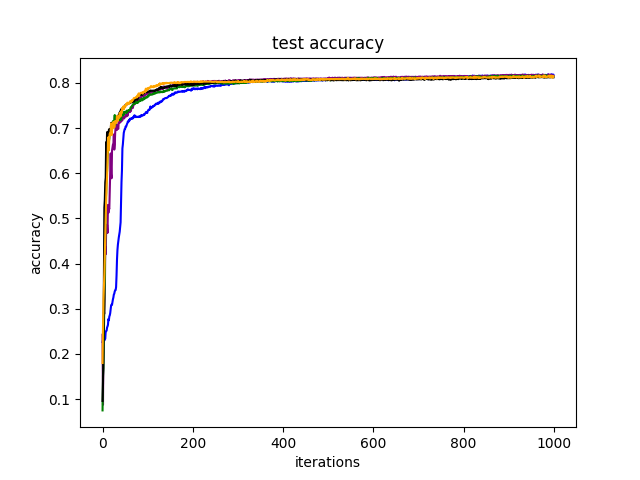
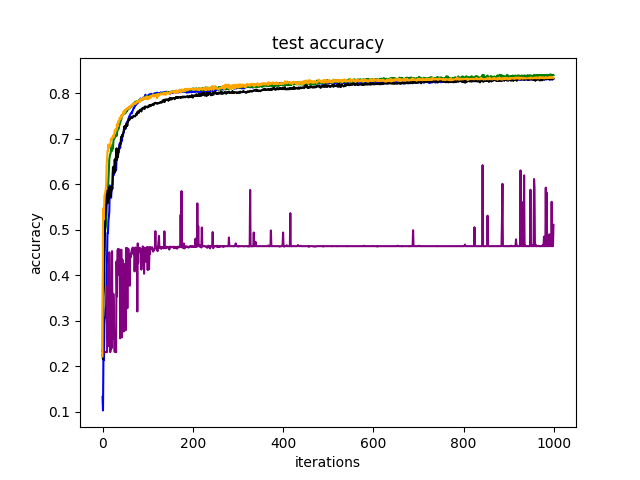
Q4 - Optimal decay parameter

diff --git a/Proj1/Project_1a/question_4.py b/Proj1/Project_1a/question_4.py
@@ -3,7 +3,7 @@ import theano
 import theano.tensor as T
 import matplotlib.pyplot as plt
 import time
-import math
+
 
 def init_bias(n = 1):
     return(theano.shared(np.zeros(n), theano.config.floatX))
@@ -64,7 +64,7 @@ for decay in possible_decay_parameters:
     w2, b2 = init_weights(neurons, 6, logistic=False), init_bias(6) #weights and biases from hidden to output layer
 
     h1 = T.nnet.sigmoid(T.dot(X, w1) + b1)
-    py = T.nnet.softmax(T.doxt(h1, w2) + b2)
+    py = T.nnet.softmax(T.dot(h1, w2) + b2)
 
     y_x = T.argmax(py, axis=1)
 
@@ -136,7 +136,7 @@ for decay in possible_decay_parameters:
 
     for i in range(epochs):
         if i % 200 == 0:
-            print("Batch size: " + str(batch_size) + ", iteration: " + str(i) +" of " + str(epochs))
+            print("Decay parameter: " + str(decay) + ", iteration: " + str(i) +" of " + str(epochs))
 
         trainX, trainY = shuffle_data(trainX, trainY)
         cost = 0.0
@@ -149,11 +149,11 @@ for decay in possible_decay_parameters:
         test_accuracy = np.append(test_accuracy, np.mean(np.argmax(testY, axis=1) == predict(testX)))
 
     plt.figure("cost")
-    plt.plot(range(epochs), train_cost, color=colors[decay], label="test")
+    plt.plot(range(epochs), train_cost, color=colors[decay], label = "Decay: " + str(decay))
     plt.figure("accuracy")
-    plt.plot(range(epochs), test_accuracy, color=colors[decay])
-    plt.figure("time")
-    plt.plot(range(epochs), time_list, color=colors[decay])
+    plt.plot(range(epochs), test_accuracy, color=colors[decay], label = "Decay: " + str(decay))
+    #plt.figure("time")
+    #plt.plot(range(epochs), time_list, color=colors[decay])
 
 
 
@@ -166,14 +166,16 @@ plt.figure("cost")
 plt.xlabel('iterations')
 plt.ylabel('cross-entropy')
 plt.title('training cost')
-plt.savefig('p1a_sample_cost.png')
+plt.savefig('p1a_sample_cost_decay.png')
+plt.legend(loc = "best")
 
 plt.figure("accuracy")
 #plt.plot(range(epochs), test_accuracy)
 plt.xlabel('iterations')
 plt.ylabel('accuracy')
 plt.title('test accuracy')
-plt.savefig('p1a_sample_accuracy.png')
+plt.savefig('p1a_sample_accuracy_decay.png')
+plt.legend(loc = "best")
 
 plt.show()
 
